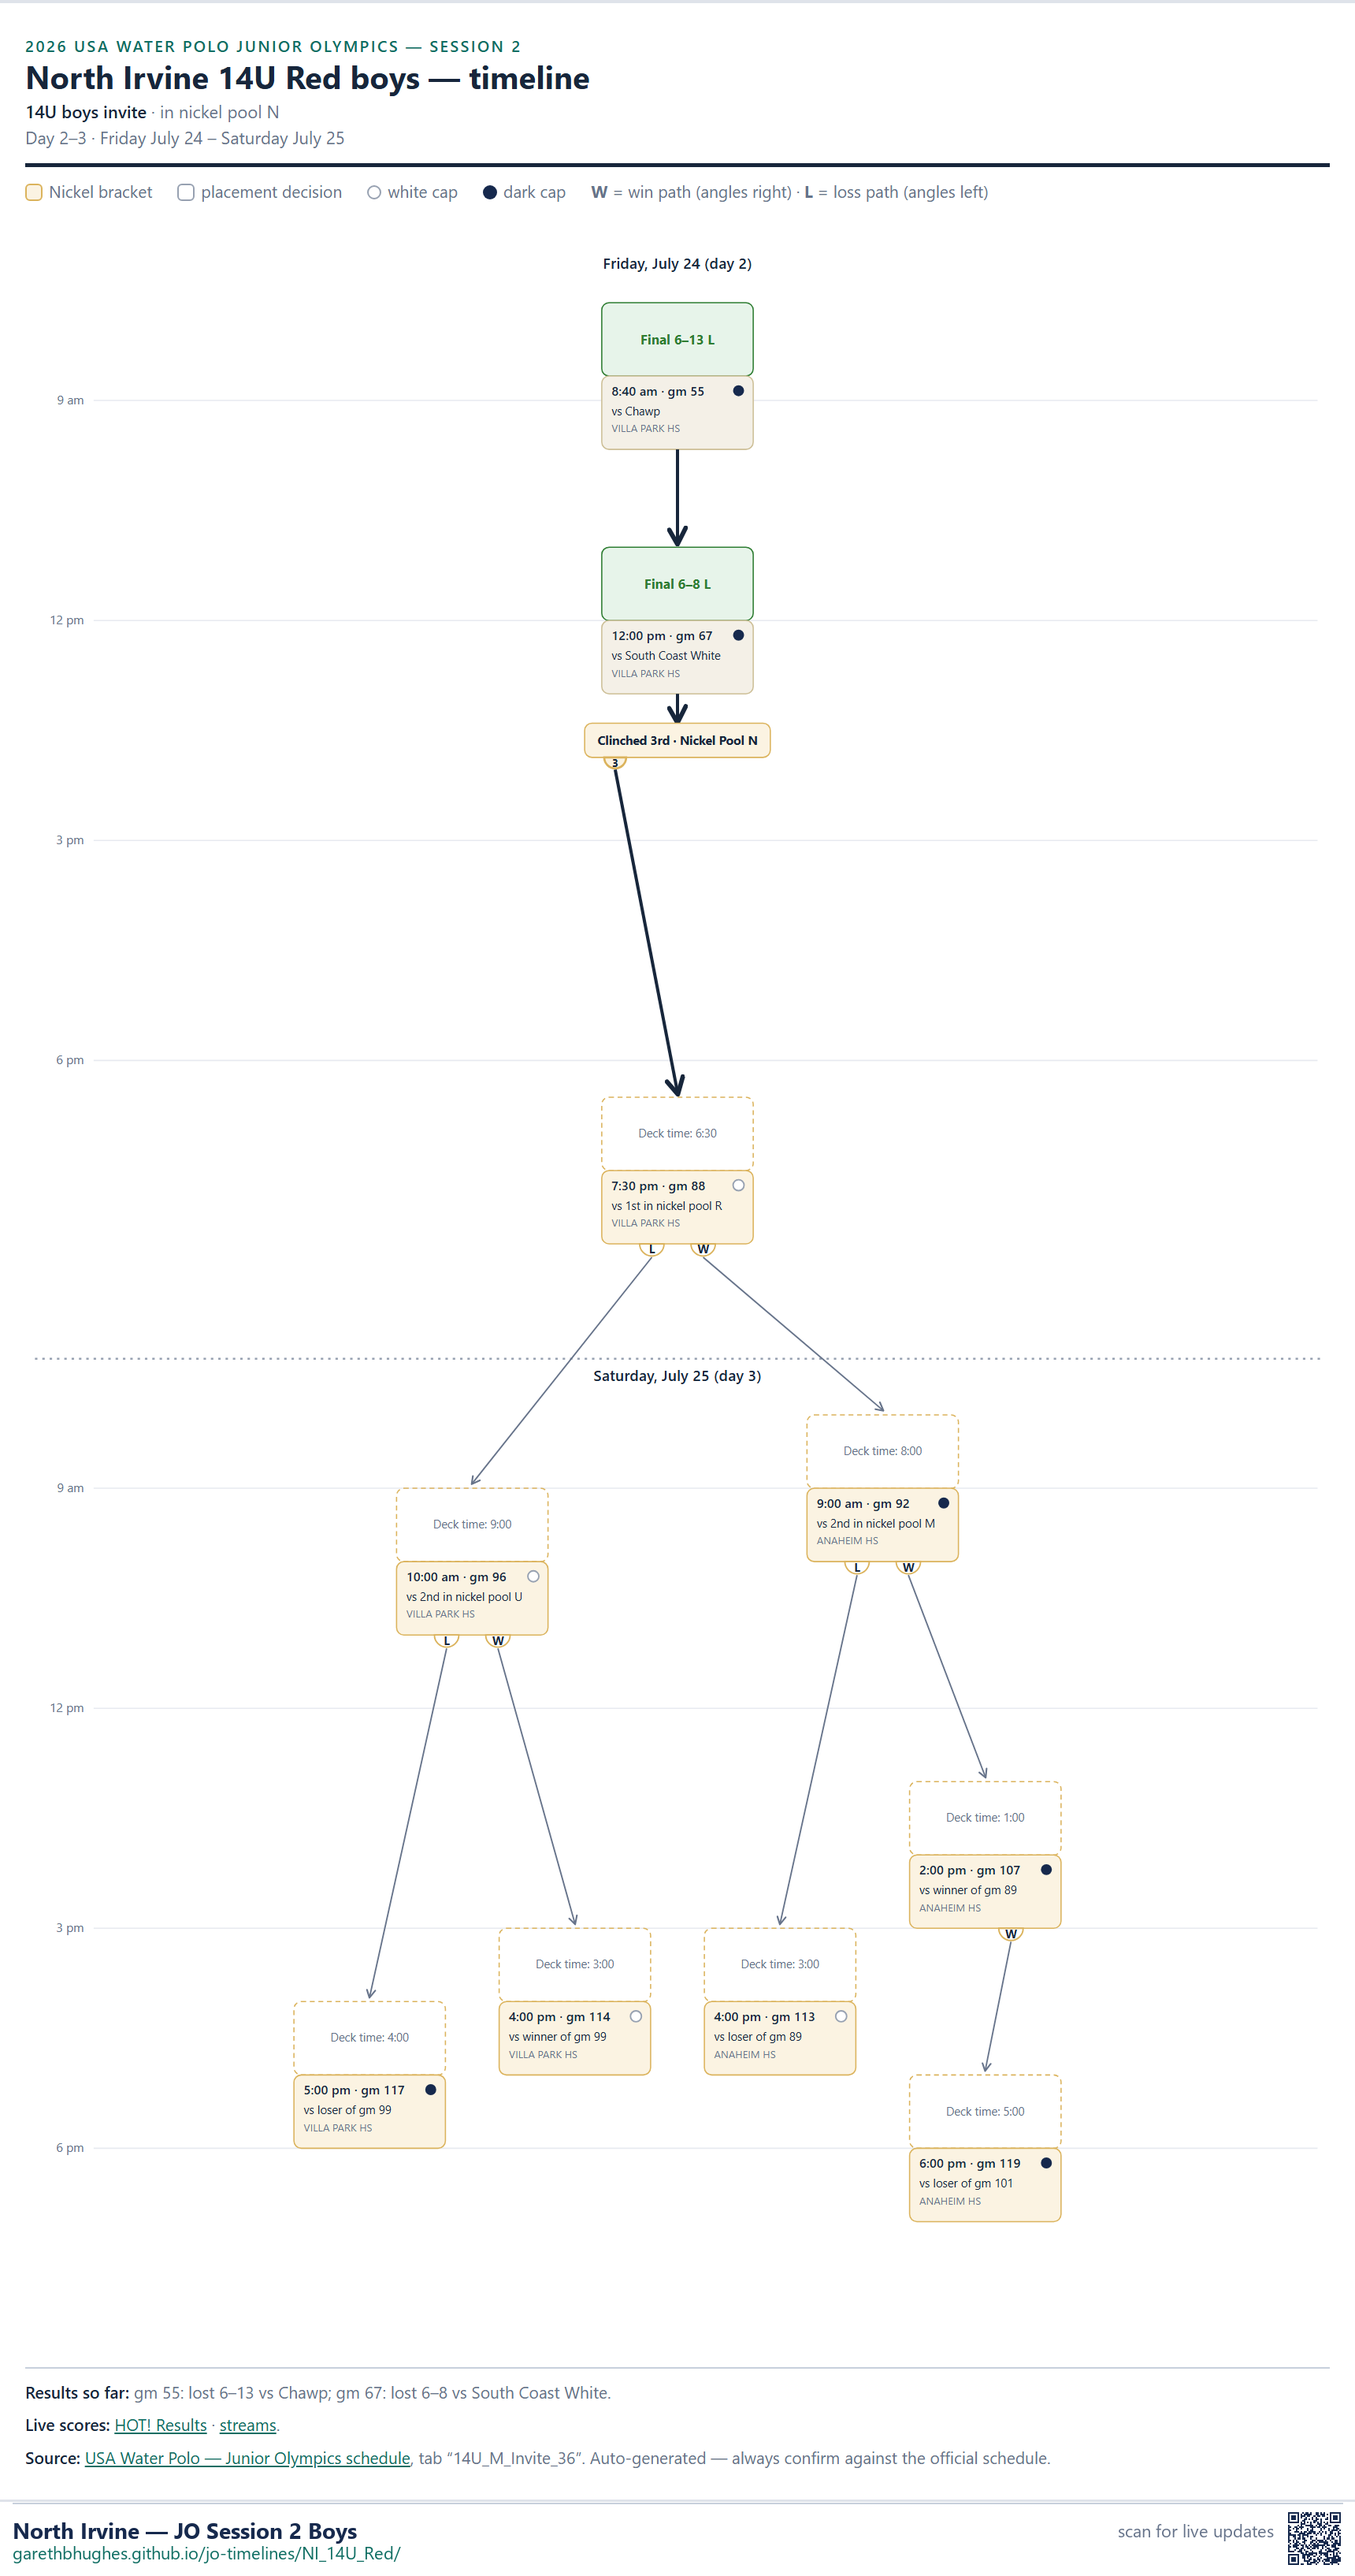
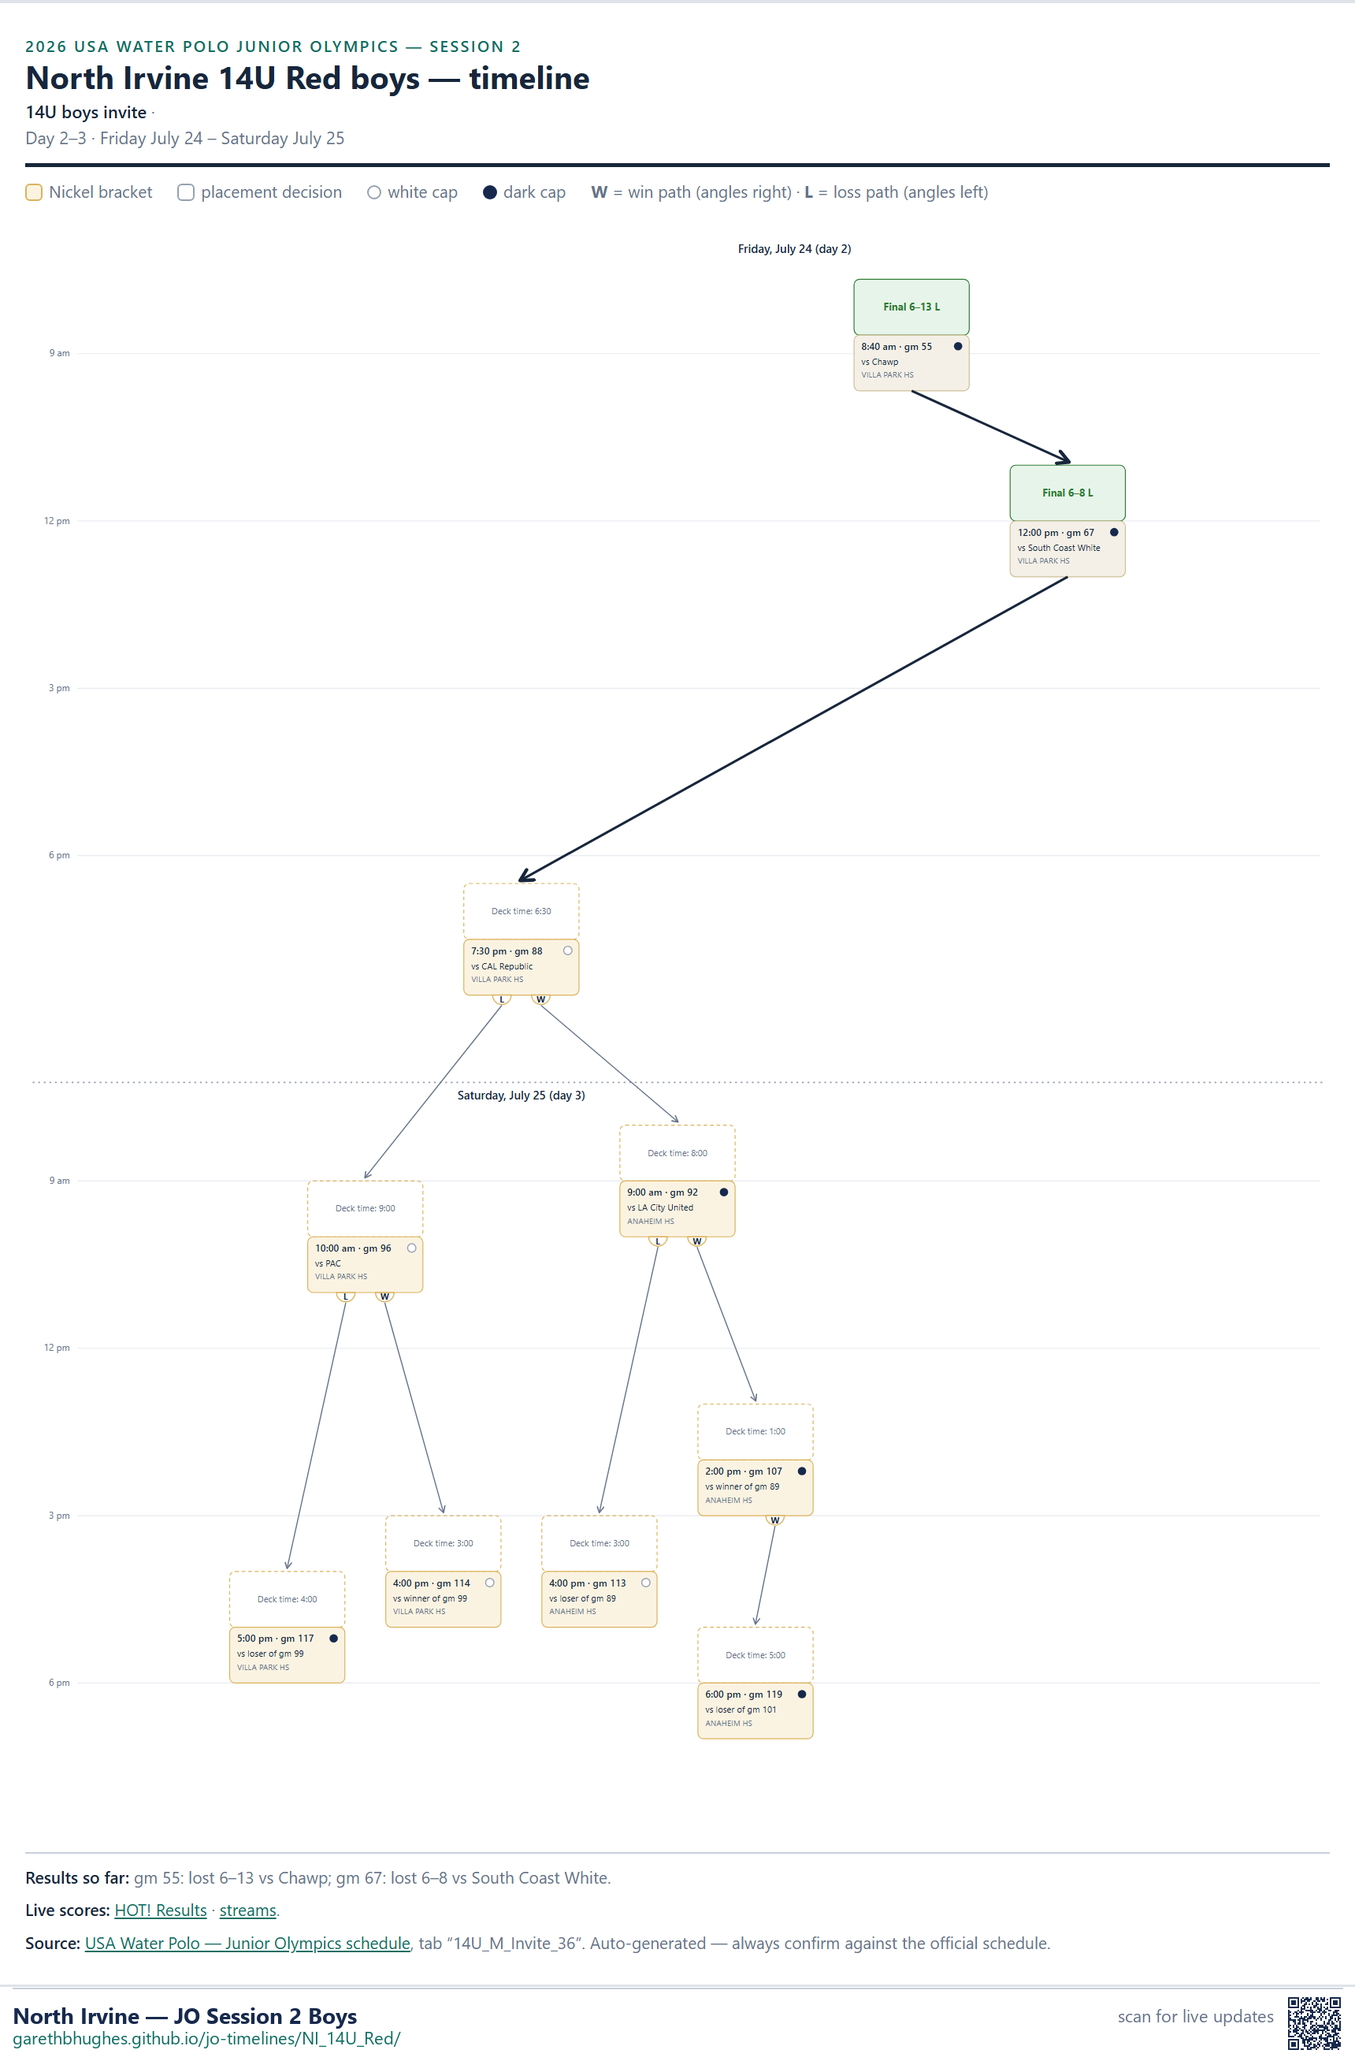
refresh 2026-07-24T17:22

diff --git a/NI_14U_Red/index.html b/NI_14U_Red/index.html
@@ -55,11 +55,11 @@ h2 { font-size:14px; text-transform:uppercase; letter-spacing:.06em; color:var(-
 <a class="back" href="../">← all North Irvine teams</a>
 <header class="site" style="margin-top:8px"><p class="eyebrow">2026 USA Water Polo Junior Olympics — Session 2</p>
 <h1>North Irvine 14U Red boys</h1>
-<p class="stamp"><b>14U boys invite</b> · in nickel pool N<br>
-Last verified against the master schedule at Friday July 24, 5:07 PM</p></header>
-<div class="next"><p class="next-h">Next game</p><p class="next-opp">vs 1st in nickel pool R</p><dl class="next-grid"><dt>When</dt><dd>Friday July 24 · 7:30 pm</dd><dt>Deck</dt><dd>6:30</dd><dt>Where</dt><dd>VILLA PARK HS</dd><dt>Caps</dt><dd>white caps</dd><dt>Game</dt><dd>#88</dd></dl></div>
+<p class="stamp"><b>14U boys invite</b> · <br>
+Last verified against the master schedule at Friday July 24, 5:22 PM</p></header>
+<div class="next"><p class="next-h">Next game</p><p class="next-opp">vs CAL Republic</p><dl class="next-grid"><dt>When</dt><dd>Friday July 24 · 7:30 pm</dd><dt>Deck</dt><dd>6:30</dd><dt>Where</dt><dd>VILLA PARK HS</dd><dt>Caps</dt><dd>white caps</dd><dt>Game</dt><dd>#88</dd></dl><p class="scout"><b>Scouting report:</b> Cal Republic (seed 20) is 4–1 in this session so far — beat San Clemente Black 12–6; beat Tri Valley Tritons 21–7; beat Stanford White 11–6; lost to Vnited 12–14. They&#x27;re averaging 13.2 goals for and 8.2 against.</p></div>
 
 <img class="tl" src="portrait.png" alt="Upcoming games timeline for North Irvine 14U Red boys">
-<h2>Change log</h2><ul class="log"><li><time>3:31 PM</time>Game 55 score updated (vs Chawp).</li><li><time>3:31 PM</time>Game 67 score updated (vs South Coast White).</li><li><time>3:27 PM</time>Game 55 score updated (vs Chawp).</li><li><time>3:27 PM</time>Game 67 score updated (vs South Coast White).</li><li><time>7:00 AM</time>Game 53 score updated (vs copper pool M).</li><li><time>7:00 AM</time>Game 51 score updated (vs nickel pool U).</li><li><time>7:00 AM</time>Game 52 score updated (vs nickel pool T).</li><li><time>7:00 AM</time>Game 56 score updated (vs copper pool N).</li><li><time>7:00 AM</time>Game 65 score updated (vs copper pool M).</li><li><time>7:00 AM</time>Game 18 score updated (vs Navy).</li><li><time>7:00 AM</time>Game 63 score updated (vs nickel pool U).</li><li><time>7:00 AM</time>Game 64 score updated (vs nickel pool T).</li><li><time>7:00 AM</time>Game 68 score updated (vs copper pool N).</li><li><time>7:00 AM</time>Game 30 score updated (vs 908 Blue).</li><li><time>7:00 AM</time>Game 39 score updated (vs 2nd I).</li><li><time>7:00 AM</time>Game 42 score updated (vs 3rd I).</li><li><time>1:30 PM</time>Game 67 score updated (vs South Coast White).</li><li><time>1:11 PM</time>Game 55 score updated (vs Chawp).</li><li><time>1:11 PM</time>Game 67 set: vs South Coast White, 12:00 pm at VILLA PARK HS.</li><li><time>7:00 AM</time>Game 53 score updated (vs copper pool M).</li><li><time>7:00 AM</time>Game 51 score updated (vs nickel pool U).</li><li><time>7:00 AM</time>Game 52 score updated (vs nickel pool T).</li><li><time>7:00 AM</time>Game 56 score updated (vs copper pool N).</li><li><time>7:00 AM</time>Game 65 score updated (vs copper pool M).</li><li><time>7:00 AM</time>Game 18 score updated (vs Navy).</li><li><time>7:00 AM</time>Game 63 set: vs nickel pool U, 11:10 am at SADDLEBACK COLLEGE 1.</li><li><time>7:00 AM</time>Game 64 set: vs nickel pool T, 11:10 am at VILLA PARK HS.</li><li><time>7:00 AM</time>Game 68 score updated (vs copper pool N).</li><li><time>7:00 AM</time>Game 30 score updated (vs 908 Blue).</li><li><time>7:00 AM</time>Game 39 score updated (vs 2nd I).</li><li><time>7:00 AM</time>Game 42 score updated (vs 3rd I).</li><li><time>11:36 AM</time>Game 55 score updated (vs Chawp).</li><li><time>11:36 AM</time>Game 67 set: vs South Coast White, 12:00 pm at VILLA PARK HS.</li><li><time>7:00 AM</time>Game 53 score updated (vs copper pool M).</li><li><time>7:00 AM</time>Game 51 score updated (vs nickel pool U).</li><li><time>7:00 AM</time>Game 52 score updated (vs nickel pool T).</li><li><time>7:00 AM</time>Game 56 score updated (vs copper pool N).</li><li><time>7:00 AM</time>Game 65 set: vs copper pool M, 10:20 am at TRABUCO HILLS HS.</li><li><time>7:00 AM</time>Game 18 score updated (vs Navy).</li><li><time>7:00 AM</time>Game 63 set: vs nickel pool U, 11:10 am at SADDLEBACK COLLEGE 1.</li></ul>
+<h2>Change log</h2><ul class="log"><li><time>5:22 PM</time>Game 92 set: vs LA City United, 9:00 am at ANAHEIM HS.</li><li><time>5:22 PM</time>Game 96 set: vs PAC, 10:00 am at VILLA PARK HS.</li><li><time>5:22 PM</time>Game 88 set: vs CAL Republic, 7:30 pm at VILLA PARK HS.</li><li><time>3:31 PM</time>Game 55 score updated (vs Chawp).</li><li><time>3:31 PM</time>Game 67 score updated (vs South Coast White).</li><li><time>3:27 PM</time>Game 55 score updated (vs Chawp).</li><li><time>3:27 PM</time>Game 67 score updated (vs South Coast White).</li><li><time>7:00 AM</time>Game 53 score updated (vs copper pool M).</li><li><time>7:00 AM</time>Game 51 score updated (vs nickel pool U).</li><li><time>7:00 AM</time>Game 52 score updated (vs nickel pool T).</li><li><time>7:00 AM</time>Game 56 score updated (vs copper pool N).</li><li><time>7:00 AM</time>Game 65 score updated (vs copper pool M).</li><li><time>7:00 AM</time>Game 18 score updated (vs Navy).</li><li><time>7:00 AM</time>Game 63 score updated (vs nickel pool U).</li><li><time>7:00 AM</time>Game 64 score updated (vs nickel pool T).</li><li><time>7:00 AM</time>Game 68 score updated (vs copper pool N).</li><li><time>7:00 AM</time>Game 30 score updated (vs 908 Blue).</li><li><time>7:00 AM</time>Game 39 score updated (vs 2nd I).</li><li><time>7:00 AM</time>Game 42 score updated (vs 3rd I).</li><li><time>1:30 PM</time>Game 67 score updated (vs South Coast White).</li><li><time>1:11 PM</time>Game 55 score updated (vs Chawp).</li><li><time>1:11 PM</time>Game 67 set: vs South Coast White, 12:00 pm at VILLA PARK HS.</li><li><time>7:00 AM</time>Game 53 score updated (vs copper pool M).</li><li><time>7:00 AM</time>Game 51 score updated (vs nickel pool U).</li><li><time>7:00 AM</time>Game 52 score updated (vs nickel pool T).</li><li><time>7:00 AM</time>Game 56 score updated (vs copper pool N).</li><li><time>7:00 AM</time>Game 65 score updated (vs copper pool M).</li><li><time>7:00 AM</time>Game 18 score updated (vs Navy).</li><li><time>7:00 AM</time>Game 63 set: vs nickel pool U, 11:10 am at SADDLEBACK COLLEGE 1.</li><li><time>7:00 AM</time>Game 64 set: vs nickel pool T, 11:10 am at VILLA PARK HS.</li><li><time>7:00 AM</time>Game 68 score updated (vs copper pool N).</li><li><time>7:00 AM</time>Game 30 score updated (vs 908 Blue).</li><li><time>7:00 AM</time>Game 39 score updated (vs 2nd I).</li><li><time>7:00 AM</time>Game 42 score updated (vs 3rd I).</li><li><time>11:36 AM</time>Game 55 score updated (vs Chawp).</li><li><time>11:36 AM</time>Game 67 set: vs South Coast White, 12:00 pm at VILLA PARK HS.</li><li><time>7:00 AM</time>Game 53 score updated (vs copper pool M).</li><li><time>7:00 AM</time>Game 51 score updated (vs nickel pool U).</li><li><time>7:00 AM</time>Game 52 score updated (vs nickel pool T).</li><li><time>7:00 AM</time>Game 56 score updated (vs copper pool N).</li></ul>
 <div class="fineprint"><p><b>Results so far:</b> gm 55: lost 6–13 vs Chawp; gm 67: lost 6–8 vs South Coast White.</p><p><b>Live scores:</b> <a href="https://kahunaevents.org">HOT! Results</a> · <a href="https://gols.co/2026-usawp-junior-olympics-session-2/">streams</a>.</p><p><b>Source:</b> <a href="https://usawaterpolo.org/sports/2018/12/19/junior-olympics.aspx#schedule">USA Water Polo — Junior Olympics schedule</a>, tab “14U_M_Invite_36”. Auto-generated — always confirm against the official schedule.</p></div>
 </div></body></html>

diff --git a/index.html b/index.html
@@ -54,7 +54,7 @@ h2 { font-size:14px; text-transform:uppercase; letter-spacing:.06em; color:var(-
 </style></head><body><div class="wrap">
 <header class="site"><p class="eyebrow">2026 USA Water Polo Junior Olympics — Session 2</p>
 <h1>North Irvine — JO Session 2 Boys</h1>
-<p class="stamp">Last refreshed Friday July 24, 5:07 PM · auto-updates from the master schedule</p></header>
+<p class="stamp">Last refreshed Friday July 24, 5:22 PM · auto-updates from the master schedule</p></header>
 <p>Tap your team for the up-to-date timeline (win/loss paths, times, venues, deck times):</p>
 <ul class="teams"><a href="NI_12U_Black/"><span>North Irvine 12U Black boys</span><span class="div">12U boys championship →</span></a><a href="NI_14U_Black/"><span>North Irvine 14U Black boys</span><span class="div">14U boys championship →</span></a><a href="NI_18U_Black/"><span>North Irvine 18U Black boys</span><span class="div">18U boys championship →</span></a><a href="NI_18U_Red/"><span>North Irvine 18U Red boys</span><span class="div">18U boys championship →</span></a><a href="NI_12U_Red/"><span>North Irvine 12U Red boys</span><span class="div">12U boys classic →</span></a><a href="NI_14U_Red/"><span>North Irvine 14U Red boys</span><span class="div">14U boys invite →</span></a></ul>
 <p class="links"><b>Live scores:</b> <a href="https://kahunaevents.org">HOT! Results</a> ·

diff --git a/NI_18U_Black/index.html b/NI_18U_Black/index.html
@@ -56,7 +56,7 @@ h2 { font-size:14px; text-transform:uppercase; letter-spacing:.06em; color:var(-
 <header class="site" style="margin-top:8px"><p class="eyebrow">2026 USA Water Polo Junior Olympics — Session 2</p>
 <h1>North Irvine 18U Black boys</h1>
 <p class="stamp"><b>18U boys championship</b> · in platinum pool S<br>
-Last verified against the master schedule at Friday July 24, 5:07 PM</p></header>
+Last verified against the master schedule at Friday July 24, 5:22 PM</p></header>
 <div class="next"><p class="next-h">Next game</p><p class="next-opp">vs Shaq Blue</p><dl class="next-grid"><dt>When</dt><dd>Friday July 24 · 4:00 pm</dd><dt>Deck</dt><dd>3:00</dd><dt>Where</dt><dd>JSERRA CHS</dd><dt>Caps</dt><dd>dark caps</dd><dt>Game</dt><dd>#108</dd></dl><p class="scout"><b>Scouting report:</b> Shaq Blue (seed 29) is 2–2 in this session so far — beat Pegasus Blue 20–8; beat Foothill Red A 15–7; lost to La Jolla United A 7–13; lost to Greenwich 7–12. They&#x27;re averaging 12.2 goals for and 10 against. Common opponent Greenwich: you lost 13–16, they lost 7–12.</p></div>
 
 <img class="tl" src="portrait.png" alt="Upcoming games timeline for North Irvine 18U Black boys">

diff --git a/NI_14U_Black/index.html b/NI_14U_Black/index.html
@@ -56,7 +56,7 @@ h2 { font-size:14px; text-transform:uppercase; letter-spacing:.06em; color:var(-
 <header class="site" style="margin-top:8px"><p class="eyebrow">2026 USA Water Polo Junior Olympics — Session 2</p>
 <h1>North Irvine 14U Black boys</h1>
 <p class="stamp"><b>14U boys championship</b> · in gold pool N<br>
-Last verified against the master schedule at Friday July 24, 5:07 PM</p></header>
+Last verified against the master schedule at Friday July 24, 5:22 PM</p></header>
 <div class="next"><p class="next-h">Next game</p><p class="next-opp">vs Texas Thunder</p><dl class="next-grid"><dt>When</dt><dd>Friday July 24 · 4:10 pm</dd><dt>Deck</dt><dd>3:10</dd><dt>Where</dt><dd>EL MODENA HS</dd><dt>Caps</dt><dd>white caps</dd><dt>Game</dt><dd>#107</dd></dl><p class="scout"><b>Scouting report:</b> Texas Thunder (seed 31) is 1–3 in this session so far — beat Punahou 15–5; lost to Cc United Black 7–15; lost to Sd Shores Black 4–17; lost to Pegasus 2–16. They&#x27;re averaging 7 goals for and 13.2 against. Common opponent Pegasus: you won 11–5, they lost 2–16.</p></div>
 
 <img class="tl" src="portrait.png" alt="Upcoming games timeline for North Irvine 14U Black boys">

diff --git a/NI_12U_Red/index.html b/NI_12U_Red/index.html
@@ -56,7 +56,7 @@ h2 { font-size:14px; text-transform:uppercase; letter-spacing:.06em; color:var(-
 <header class="site" style="margin-top:8px"><p class="eyebrow">2026 USA Water Polo Junior Olympics — Session 2</p>
 <h1>North Irvine 12U Red boys</h1>
 <p class="stamp"><b>12U boys classic</b> · in bronze pool S<br>
-Last verified against the master schedule at Friday July 24, 5:07 PM</p></header>
+Last verified against the master schedule at Friday July 24, 5:22 PM</p></header>
 <div class="next"><p class="next-h">Next game</p><p class="next-opp">vs 1st in bronze pool M</p><dl class="next-grid"><dt>When</dt><dd>Saturday July 25 · 9:40 am</dd><dt>Deck</dt><dd>8:40</dd><dt>Where</dt><dd>GOLDEN WEST COLLEGE 2</dd><dt>Caps</dt><dd>cap TBD</dd><dt>Game</dt><dd>#116</dd></dl></div>
 
 <img class="tl" src="portrait.png" alt="Upcoming games timeline for North Irvine 12U Red boys">

diff --git a/NI_18U_Red/index.html b/NI_18U_Red/index.html
@@ -56,7 +56,7 @@ h2 { font-size:14px; text-transform:uppercase; letter-spacing:.06em; color:var(-
 <header class="site" style="margin-top:8px"><p class="eyebrow">2026 USA Water Polo Junior Olympics — Session 2</p>
 <h1>North Irvine 18U Red boys</h1>
 <p class="stamp"><b>18U boys championship</b> · in gold pool S<br>
-Last verified against the master schedule at Friday July 24, 5:07 PM</p></header>
+Last verified against the master schedule at Friday July 24, 5:22 PM</p></header>
 <div class="next"><p class="next-h">Next game</p><p class="next-opp">vs 3rd in gold pool T</p><dl class="next-grid"><dt>When</dt><dd>Saturday July 25 · 9:00 am</dd><dt>Deck</dt><dd>8:00</dd><dt>Where</dt><dd>WESTMINSTER HS</dd><dt>Caps</dt><dd>dark caps</dd><dt>Game</dt><dd>#124</dd></dl></div>
 
 <img class="tl" src="portrait.png" alt="Upcoming games timeline for North Irvine 18U Red boys">

diff --git a/NI_12U_Black/index.html b/NI_12U_Black/index.html
@@ -56,7 +56,7 @@ h2 { font-size:14px; text-transform:uppercase; letter-spacing:.06em; color:var(-
 <header class="site" style="margin-top:8px"><p class="eyebrow">2026 USA Water Polo Junior Olympics — Session 2</p>
 <h1>North Irvine 12U Black boys</h1>
 <p class="stamp"><b>12U boys championship</b> · <br>
-Last verified against the master schedule at Friday July 24, 5:07 PM</p></header>
+Last verified against the master schedule at Friday July 24, 5:22 PM</p></header>
 <div class="next"><p class="next-h">Next game</p><p class="next-opp">vs winner of gm 110</p><dl class="next-grid"><dt>When</dt><dd>Saturday July 25 · 8:00 am</dd><dt>Deck</dt><dd>7:00</dd><dt>Where</dt><dd>ALISO NIGUEL HS</dd><dt>Caps</dt><dd>white caps</dd><dt>Game</dt><dd>#117</dd></dl></div>
 
 <img class="tl" src="portrait.png" alt="Upcoming games timeline for North Irvine 12U Black boys">
